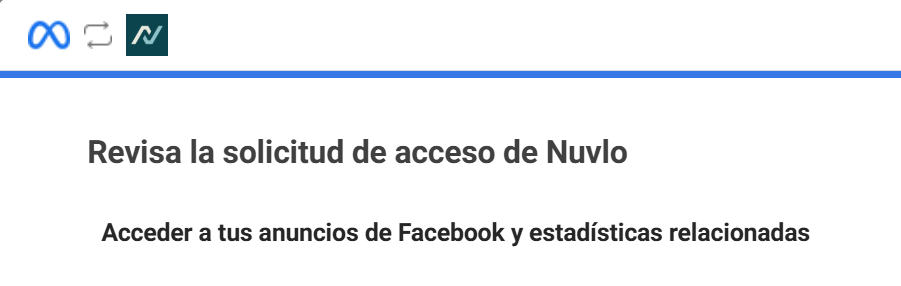
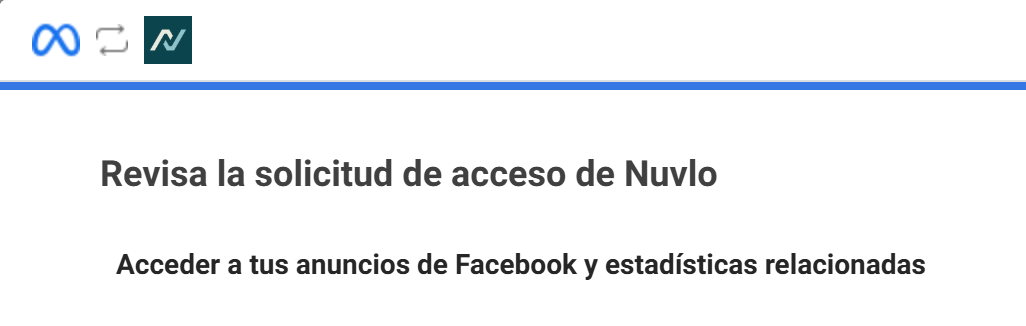
fix: la captura de Meta, a 2x
Los dos recortes de #permiso salen ahora de una captura de pantalla
completa en PNG donde la ventana de Meta mide 1124px, el doble exacto de
los 562 a los que se muestra: 1124×526 para pantallas anchas y 1026×326
para teléfono y tablet táctil. Mismo criterio de recorte y la foto de
perfil tapada. Medido: un píxel de archivo por píxel físico en escritorio
con densidad 2 (era 0,87) y 1,05 en teléfono con densidad 3.

La misma captura adjunta al chat había llegado achicada y en WebP, con la
ventana más chica que la publicada, y no se usó. DESIGN.md y el brief dejan
de anotar la densidad como pendiente.

diff --git a/components/iris/Permiso.tsx b/components/iris/Permiso.tsx
@@ -17,22 +17,26 @@ import { Entra } from "./Entra";
  * del flujo deja de ser exacta aunque la imagen sea real.
  *
  * ── LOS DOS RECORTES ───────────────────────────────────────────────────────
- * Salen de la captura de 991×1182 que aportó el dueño con el zoom del
- * navegador al 175 % (al 200 % la ventana no entraba). En los dos, la foto de
- * perfil de quien autorizó queda fuera: es un dato personal en una página
- * pública.
- * - `autorizacion-nuvlo.png`, 983×458, para pantallas anchas: la ventana
- *   entera sin el blanco del medio. Arriba llega hasta 40px debajo del
- *   permiso (y=291) y abajo arranca 35px antes de la línea del pie (y=1006);
- *   entre esas filas no hay un píxel que no sea blanco, así que la unión no se
- *   ve. Sin el canto gris (4px a los lados, 5 arriba, 4 abajo), y la foto,
- *   tapada por un círculo gris. Se muestra a 562×262: 1,75 píxeles por píxel.
- * - `autorizacion-nuvlo-movil.png`, 901×286, para teléfono y tablet táctil: la barra, el
- *   título y el permiso. A 287px de ancho la ventana entera dejaba el renglón
- *   del permiso en 7px —la prueba se veía como una forma— y «Guardar» se
- *   ofrecía para tocar sin hacer nada. Sin el pie de Meta el mismo ancho
- *   alcanza para leerlo. El avatar y su flecha se pintaron de blanco para
- *   poder cortar a margen parejo del texto (x=905).
+ * Salen de una captura de pantalla completa de 2560×1800 en PNG que aportó el
+ * dueño (25/09/2026), donde la ventana de Meta mide 1124px de ancho: el doble
+ * exacto de los 562 a los que se muestra. Las coordenadas de abajo son de esa
+ * captura. En los dos, la foto de perfil de quien autorizó queda fuera: es un
+ * dato personal en una página pública. (Hubo antes una a 1x y otra al 175 %;
+ * la de 1x se ablandaba en cualquier pantalla densa y la del 175 % quedaba a
+ * 0,87 con densidad 2.)
+ * - `autorizacion-nuvlo.png`, 1124×526, para pantallas anchas: la ventana
+ *   entera (x 718–1841, sin el canto gris de 6px) sin el blanco del medio.
+ *   Arriba llega hasta 46px debajo del permiso (y=490) y abajo arranca 40px
+ *   antes de la línea del pie (y=1304); entre esas filas no hay un píxel que no
+ *   sea blanco, así que la unión no se ve. La foto, tapada por un círculo gris.
+ *   Se muestra a 562×263: 2 píxeles por píxel.
+ * - `autorizacion-nuvlo-movil.png`, 1026×326, para teléfono y tablet táctil:
+ *   la barra, el título y el permiso. A 287px de ancho la ventana entera
+ *   dejaba el renglón del permiso en 7px —la prueba se veía como una forma— y
+ *   «Guardar» se ofrecía para tocar sin hacer nada. Sin el pie de Meta el
+ *   mismo ancho alcanza para leerlo. El avatar y su flecha se pintaron de
+ *   blanco para poder cortar a margen parejo del texto: el título arranca
+ *   102px adentro y el permiso termina en x=1642, así que el corte va en 1744.
  *
  * ── LO QUE SE AFIRMA ───────────────────────────────────────────────────────
  * - `ads_read` es el ÚNICO permiso que pide el panel (`META_SCOPES` en
@@ -127,14 +131,14 @@ export function Permiso() {
               <source
                 media="(max-width: 767px), (pointer: coarse) and (max-width: 1199px)"
                 srcSet="/meta/autorizacion-nuvlo-movil.png"
-                width={901}
-                height={286}
+                width={1026}
+                height={326}
               />
               <img
                 className="i-permiso-ventana"
                 src="/meta/autorizacion-nuvlo.png"
-                width={983}
-                height={458}
+                width={1124}
+                height={526}
                 loading="lazy"
                 decoding="async"
                 alt="Pantalla de Meta para revisar el acceso de Nuvlo: «Revisa la solicitud de acceso de Nuvlo», con un único permiso, «Acceder a tus anuncios de Facebook y estadísticas relacionadas»."

diff --git a/app/estilos/secciones.css b/app/estilos/secciones.css
@@ -7768,7 +7768,7 @@ body[data-barra-control] .i-atajo {
    permiso (los dos están explicados en `Permiso.tsx`). Una cita no se retiña:
    el radio y la sombra honda son lo único que le pone la página, y son lo que
    la despega del campo como una ventana y no como un rectángulo pegado. Nunca
-   más ancha que 562px: el archivo trae 1,75 píxeles por cada uno de esos, y
+   más ancha que 562px: el archivo trae 2 píxeles por cada uno de esos, y
    más ancha perdería esa densidad. */
 .i-permiso-halo {
   position: absolute;

diff --git a/DESIGN.md b/DESIGN.md
@@ -3349,11 +3349,12 @@ Nuvlo**, no con un objeto nuestro.
   de Meta o un aval. Fuera de la cita, un azul de Meta es vestirse de Meta. Escenario, no
   sistema: no cruza al panel.
 - **La ventana**: la captura real de la pantalla donde se REVISA el acceso —no la de la primera
-  conexión—, sacada con el zoom del navegador al 175 %. Dos recortes, servidos con `<picture>`:
-  - **Ancho** (`autorizacion-nuvlo.png`, 983×458): la ventana entera sin el blanco del medio
-    ni el canto gris, con la foto de perfil tapada. Se muestra a 562×262 y nunca más grande
-    —1,75 píxeles por píxel—.
-  - **Teléfono** (`autorizacion-nuvlo-movil.png`, 901×286): sólo la barra, el título y el
+  conexión—, de una captura de pantalla completa en PNG donde la ventana mide 1124px, el doble
+  exacto de lo que se muestra. Dos recortes, servidos con `<picture>`:
+  - **Ancho** (`autorizacion-nuvlo.png`, 1124×526): la ventana entera sin el blanco del medio
+    ni el canto gris, con la foto de perfil tapada. Se muestra a 562×263 y nunca más grande
+    —2 píxeles por píxel, uno por píxel físico con densidad 2—.
+  - **Teléfono y tablet táctil** (`autorizacion-nuvlo-movil.png`, 1026×326): sólo la barra, el título y el
     permiso, sin el pie de Meta y sin el avatar, y la ventana llega casi al canto del panel. A
     287px la ventana entera dejaba el renglón del permiso en 7px —la prueba se veía como una
     forma— y ofrecía un «Guardar» azul para tocar que no hacía nada. Ahora mide 326px y el
@@ -3411,7 +3412,11 @@ Nuvlo**, no con un objeto nuestro.
    entre 768 y 1199 con el halo detrás, `ads_read` conectado con el renglón de Meta en la
    bajada, la escena visible a 390 sin scroll de más, el dato de la revisión un escalón arriba y
    el filete a la medida del texto. Lo que queda es la densidad en escritorio: con densidad 2 la
-   captura queda a 0,87, y sólo lo arregla una toma más grande.
+   captura queda a 0,87, y sólo lo arregla una toma más grande. **Resuelto el mismo día:** el
+   dueño aportó una captura de pantalla completa en PNG con la ventana a 1124px, el doble
+   exacto. Una primera versión llegó adjunta al chat y venía achicada a 2000px de ancho y en
+   WebP —la ventana medía 878, menos que la publicada— y no se usó: **una captura se toma del
+   archivo original, no del adjunto**, que puede haber sido recomprimido en el camino.
 9. **La cuarta crítica (25/09/2026, 29/32, sin P0 ni P1)**, y otra vez todo:
    - la frase de lo que Nuvlo no puede hacer, en su propio párrafo: era la cola de uno de tres
      ideas, ocho renglones a 390;

diff --git a/.impeccable/surfaces/app-page-tsx.md b/.impeccable/surfaces/app-page-tsx.md
@@ -2383,8 +2383,12 @@ dueño pidió todos:
 
 Decidió no fechar la revisión de Meta.
 
-**Sin resolver:** la densidad en escritorio (0,87 con densidad 2). Hace falta una toma más
-grande que la del 175 %.
+**La densidad, resuelta (25/09/2026).** El dueño aportó una captura de pantalla completa en PNG
+(2560×1800) con la ventana a 1124px, el doble exacto de los 562 a los que se muestra. Mismo
+criterio de recorte: `autorizacion-nuvlo.png` 1124×526 y `autorizacion-nuvlo-movil.png`
+1026×326. Medido: densidad 1,00 por píxel físico en escritorio con densidad 2, y 1,05 en
+teléfono con densidad 3. La misma captura adjunta al chat había llegado achicada (2000px, WebP,
+ventana de 878) y se descartó: vale el archivo original.
 
 ## Lo que quedó sin resolver
 
